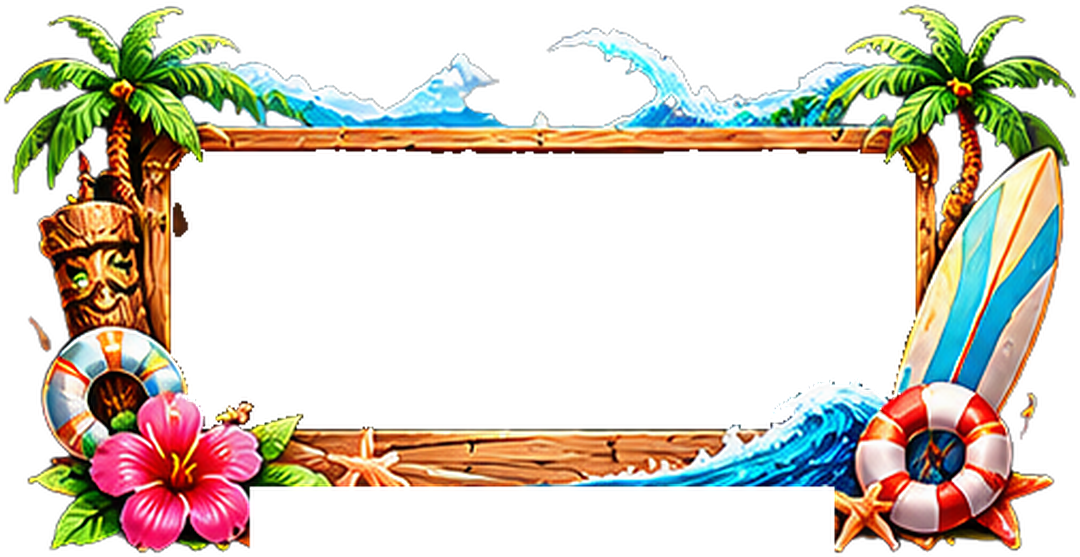
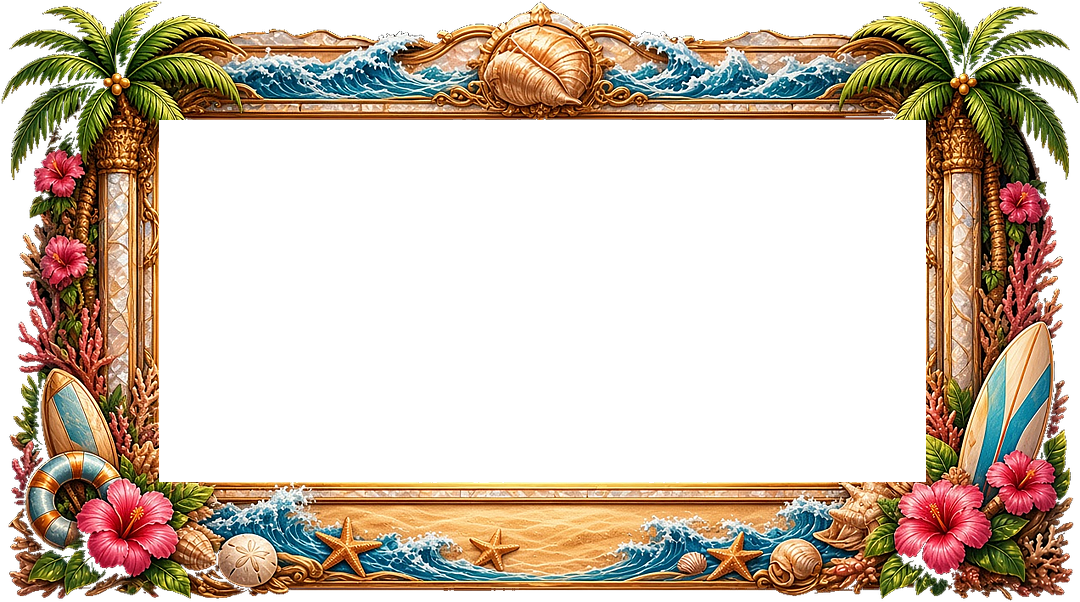
v28.136 夏日海灘外框改為方案 B 夕照珊瑚（僅畫面，數學／RTP 不變）

diff --git a/sw.js b/sw.js
@@ -1,6 +1,6 @@
 /* 龍運金殿 service worker — v2851 */
-const V='dfp-v28135';
-const CORE=['./','index.html','lobby2840.css?v=28131','lobby2841.css?v=2841','lobby2842.css?v=28133','act2848.css?v=2850','lobby2840.js?v=28133','av2877.css?v=28107','av2877.js?v=28107','assets/lx/bg.webp?v=2841','assets/fonts/lxserif.woff2?v=28117','dsfx.js?v=2854','gal266.css?v=266','gal266.js?v=267','logo262.css?v=264','lobby260.css?v=265','mq257.css?v=258','mq257.js?v=258','offline.html','privacy.html','store.js?v=2854','rm.js?v=256','life.js?v=256','age.js?v=286','settings.js?v=28135','feat28123.css?v=28127','assets/featgold/btn-wide.webp?v=28127','assets/featgold/stage-lip.webp?v=28127','assets/featgold/stage-fill.webp?v=28127','assets/featgold/panel.webp?v=28127','assets/featgold/rail-h.webp?v=28127','lb28111.css?v=28114','lb28111.js?v=28114','assets/lx/medal1.webp?v=28114','assets/lx/medal2.webp?v=28114','assets/lx/medal3.webp?v=28114','nick28112.css?v=28112','nick28112.js?v=28112','chat28117.css?v=28117','chat28117.js?v=28117','assets/chat/ico_horn.webp?v=28117','perf2887.js?v=2888','perf2887.css?v=2887','fx2888.css?v=2888','plaque28109.css?v=28128','bar28110.css?v=28110','ad2880.css?v=2880','ad2880.js?v=28101','menu2880.css?v=2884','menu2880.js?v=2881','deck2883.css?v=2883','deck2884.css?v=28128','deck2885.css?v=2885','deck2886.css?v=28118','assets/deck/skins/gold/btn-round.webp?v=2886','assets/ui/ico-home.svg?v=2884','assets/ui/ico-menu.svg?v=2884','assets/deck/skins/gold/frame.webp?v=2887','assets/deck/skins/gold/fill.webp?v=2884','assets/deck/skins/gold/crest.webp?v=2887','assets/deck/skins/gold/plaque.webp?v=2887','assets/deck/skins/gold/plaque-bet.webp?v=28128','toast2873.css?v=28115','ach2874.css?v=2898','ach2874.js?v=2882','assets/lx/ach_spin.svg?v=2875','assets/lx/ach_win.svg?v=2875','assets/lx/ach_mach.svg?v=2875','assets/lx/ach_feat.svg?v=2875','assets/lx/ach_lv.svg?v=2875','assets/lx/ach_frame.svg?v=2875','assets/lx/ach_ring.svg?v=2875','dfpvol.css?v=2854','dfpvol.js?v=2854','skinshop.css?v=2865','frame.css?v=2839','frame2844.css?v=2844','frame2846.css?v=2846','frame28134.css?v=28134','sym2847.css?v=2847','skinshop.js?v=28134','load285.css?v=285','load286.css?v=286','load287.css?v=287','load288.css?v=288','load289.css?v=289','load2810.css?v=2810','load2811.css?v=2811','juice.css?v=2859','juice.js?v=28116','featsfx.js?v=28120','amb2851.css?v=2851','amb2851.js?v=2888','tap272.css?v=272','hint.js?v=2840','social2826.css?v=28102','fb2868.js?v=28117','social2826.js?v=28112','week2827.css?v=28100','week2827.js?v=28100','inv2828.css?v=2891','inv2828.js?v=2891','raid2829.css?v=2882','raid2829.js?v=2882','guild2833.css?v=2869','guild2833.js?v=2882','share2832.css?v=2832','share2832.js?v=2832','back.js?v=256','manifest.webmanifest','assets/fx/tw-plaque.webp?v=2858','assets/logo21.webp','assets/lobby/logo22.webp?v=256','assets/lobby/logo22_soft.webp?v=287','assets/og287.webp?v=287','assets/lobby/navbar.webp?v=256','assets/lobby/medal.webp?v=256','assets/icons/icon-192.png','assets/lobby/bg.webp?v=256','matsuri-ui.css?v=28135','samurai-ui.css?v=28135','neko-ui.css?v=28135','sakura-ui.css?v=28135','matsuri-game.js?v=28134','samurai-game.js?v=28134','neko-game.js?v=28134','sakura-game.js?v=28134','feat.css?v=28129','feat.js?v=28129','assets/featgold/plinko/plq-sakura-100.webp?v=28129','assets/featgold/plinko/plq-sakura-25.webp?v=28129','assets/featgold/plinko/plq-sakura-8.webp?v=28129','assets/featgold/plinko/plq-sakura-low.webp?v=28129','assets/featgold/plinko/plq-neko-100.webp?v=28129','assets/featgold/plinko/plq-neko-25.webp?v=28129','assets/featgold/plinko/plq-neko-8.webp?v=28129','assets/featgold/plinko/plq-neko-low.webp?v=28129','assets/featgold/plinko/plq-samurai-100.webp?v=28129','assets/featgold/plinko/plq-samurai-25.webp?v=28129','assets/featgold/plinko/plq-samurai-8.webp?v=28129','assets/featgold/plinko/plq-samurai-low.webp?v=28129','assets/featgold/plinko/plq-matsuri-100.webp?v=28129','assets/featgold/plinko/plq-matsuri-25.webp?v=28129','assets/featgold/plinko/plq-matsuri-8.webp?v=28129','assets/featgold/plinko/plq-matsuri-low.webp?v=28129','assets/reelbg/bg-sakura.webp?v=28130','assets/reelbg/bg-neko.webp?v=28130','assets/reelbg/bg-samurai.webp?v=28130','assets/reelbg/bg-matsuri.webp?v=28130','assets/reelbg/frame-sakura.webp?v=28135','assets/reelbg/frame-neko.webp?v=28135','assets/reelbg/frame-samurai.webp?v=28135','assets/reelbg/frame-matsuri.webp?v=28135'];
+const V='dfp-v28136';
+const CORE=['./','index.html','lobby2840.css?v=28131','lobby2841.css?v=2841','lobby2842.css?v=28133','act2848.css?v=2850','lobby2840.js?v=28133','av2877.css?v=28107','av2877.js?v=28107','assets/lx/bg.webp?v=2841','assets/fonts/lxserif.woff2?v=28117','dsfx.js?v=2854','gal266.css?v=266','gal266.js?v=267','logo262.css?v=264','lobby260.css?v=265','mq257.css?v=258','mq257.js?v=258','offline.html','privacy.html','store.js?v=2854','rm.js?v=256','life.js?v=256','age.js?v=286','settings.js?v=28136','feat28123.css?v=28127','assets/featgold/btn-wide.webp?v=28127','assets/featgold/stage-lip.webp?v=28127','assets/featgold/stage-fill.webp?v=28127','assets/featgold/panel.webp?v=28127','assets/featgold/rail-h.webp?v=28127','lb28111.css?v=28114','lb28111.js?v=28114','assets/lx/medal1.webp?v=28114','assets/lx/medal2.webp?v=28114','assets/lx/medal3.webp?v=28114','nick28112.css?v=28112','nick28112.js?v=28112','chat28117.css?v=28117','chat28117.js?v=28117','assets/chat/ico_horn.webp?v=28117','perf2887.js?v=2888','perf2887.css?v=2887','fx2888.css?v=2888','plaque28109.css?v=28128','bar28110.css?v=28110','ad2880.css?v=2880','ad2880.js?v=28101','menu2880.css?v=2884','menu2880.js?v=2881','deck2883.css?v=2883','deck2884.css?v=28128','deck2885.css?v=2885','deck2886.css?v=28118','assets/deck/skins/gold/btn-round.webp?v=2886','assets/ui/ico-home.svg?v=2884','assets/ui/ico-menu.svg?v=2884','assets/deck/skins/gold/frame.webp?v=2887','assets/deck/skins/gold/fill.webp?v=2884','assets/deck/skins/gold/crest.webp?v=2887','assets/deck/skins/gold/plaque.webp?v=2887','assets/deck/skins/gold/plaque-bet.webp?v=28128','toast2873.css?v=28115','ach2874.css?v=2898','ach2874.js?v=2882','assets/lx/ach_spin.svg?v=2875','assets/lx/ach_win.svg?v=2875','assets/lx/ach_mach.svg?v=2875','assets/lx/ach_feat.svg?v=2875','assets/lx/ach_lv.svg?v=2875','assets/lx/ach_frame.svg?v=2875','assets/lx/ach_ring.svg?v=2875','dfpvol.css?v=2854','dfpvol.js?v=2854','skinshop.css?v=2865','frame.css?v=2839','frame2844.css?v=2844','frame2846.css?v=2846','frame28134.css?v=28136','sym2847.css?v=2847','skinshop.js?v=28134','load285.css?v=285','load286.css?v=286','load287.css?v=287','load288.css?v=288','load289.css?v=289','load2810.css?v=2810','load2811.css?v=2811','juice.css?v=2859','juice.js?v=28116','featsfx.js?v=28120','amb2851.css?v=2851','amb2851.js?v=2888','tap272.css?v=272','hint.js?v=2840','social2826.css?v=28102','fb2868.js?v=28117','social2826.js?v=28112','week2827.css?v=28100','week2827.js?v=28100','inv2828.css?v=2891','inv2828.js?v=2891','raid2829.css?v=2882','raid2829.js?v=2882','guild2833.css?v=2869','guild2833.js?v=2882','share2832.css?v=2832','share2832.js?v=2832','back.js?v=256','manifest.webmanifest','assets/fx/tw-plaque.webp?v=2858','assets/logo21.webp','assets/lobby/logo22.webp?v=256','assets/lobby/logo22_soft.webp?v=287','assets/og287.webp?v=287','assets/lobby/navbar.webp?v=256','assets/lobby/medal.webp?v=256','assets/icons/icon-192.png','assets/lobby/bg.webp?v=256','matsuri-ui.css?v=28135','samurai-ui.css?v=28135','neko-ui.css?v=28135','sakura-ui.css?v=28135','matsuri-game.js?v=28134','samurai-game.js?v=28134','neko-game.js?v=28134','sakura-game.js?v=28134','feat.css?v=28129','feat.js?v=28129','assets/featgold/plinko/plq-sakura-100.webp?v=28129','assets/featgold/plinko/plq-sakura-25.webp?v=28129','assets/featgold/plinko/plq-sakura-8.webp?v=28129','assets/featgold/plinko/plq-sakura-low.webp?v=28129','assets/featgold/plinko/plq-neko-100.webp?v=28129','assets/featgold/plinko/plq-neko-25.webp?v=28129','assets/featgold/plinko/plq-neko-8.webp?v=28129','assets/featgold/plinko/plq-neko-low.webp?v=28129','assets/featgold/plinko/plq-samurai-100.webp?v=28129','assets/featgold/plinko/plq-samurai-25.webp?v=28129','assets/featgold/plinko/plq-samurai-8.webp?v=28129','assets/featgold/plinko/plq-samurai-low.webp?v=28129','assets/featgold/plinko/plq-matsuri-100.webp?v=28129','assets/featgold/plinko/plq-matsuri-25.webp?v=28129','assets/featgold/plinko/plq-matsuri-8.webp?v=28129','assets/featgold/plinko/plq-matsuri-low.webp?v=28129','assets/reelbg/bg-sakura.webp?v=28130','assets/reelbg/bg-neko.webp?v=28130','assets/reelbg/bg-samurai.webp?v=28130','assets/reelbg/bg-matsuri.webp?v=28130','assets/reelbg/frame-sakura.webp?v=28135','assets/reelbg/frame-neko.webp?v=28135','assets/reelbg/frame-samurai.webp?v=28135','assets/reelbg/frame-matsuri.webp?v=28135'];
 self.addEventListener('install',e=>{e.waitUntil(caches.open(V).then(c=>c.addAll(CORE)).then(()=>self.skipWaiting()))});
 self.addEventListener('activate',e=>{e.waitUntil(caches.keys().then(ks=>Promise.all(ks.filter(k=>k.startsWith('dfp-')&&k!==V).map(k=>caches.delete(k)))).then(()=>self.clients.claim()))});
 self.addEventListener('fetch',e=>{

diff --git a/matsuri.html b/matsuri.html
@@ -100,6 +100,6 @@ document.addEventListener('click',e=>{if(document.body.classList.contains('menu1
 $('menu16').addEventListener('click',e=>{if(e.target.closest('button')&&!e.target.closest('#soundBtn')&&!e.target.closest('.dfpVol')&&!e.target.closest('#setBtn')&&!e.target.closest('#vibBtn')&&!e.target.closest('#rmBtn')){document.body.classList.remove('menu16');mb.setAttribute('aria-expanded',false)}});
 const fit=el=>{const l=String(el.textContent).length;if(el.dataset.l!=l)el.dataset.l=l};['bal','win'].forEach(id=>{const el=$(id);fit(el);new MutationObserver(()=>fit(el)).observe(el,{childList:true,characterData:true,subtree:true})})})()</script><script>window.CZM={"id": "matsuri", "name": "夏祭花火", "buy": 15.5, "rtp": 94.02, "buyRtp": 93.75, "fsm": 2}</script><script>CZM.who="夏美";CZM.voice={"yokoku": ["煙火好像要升空了…！", "祭典的預感！"], "reach": ["機會來了！金魚拜託了！", "就差一個！"], "hot": ["大煙火要來了！！", "祭典要高潮了！"], "win": ["好美的煙火〜！", "太好了！"], "lose": ["期待下一發煙火！", "好可惜〜"], "kakutei": ["大獎煙火，確定！！"]}</script><script src="casino.js?v=28122"></script><script src="gallery.js?v=2897"></script><script src="minigame.js?v=2815"></script><script src="enshutsu.js?v=2853"></script><script src="czaudio.js?v=28116"></script><script src="featsfx.js?v=28120"></script><script src="czfit.js?v=2888"></script><link rel="stylesheet" href="juice.css?v=2859"><script src="juice.js?v=28116"></script><link rel="stylesheet" href="amb2851.css?v=2851"><script src="amb2851.js?v=2888"></script><link rel="stylesheet" href="holdspin.css?v=2823"><script src="holdspin.js?v=28127"></script><link rel="stylesheet" href="av.css?v=2863"><script src="av.js?v=28116"></script><link rel="stylesheet" href="feat.css?v=28129"><script src="fxlite.js?v=28121"></script><script src="feat.js?v=28129"></script><link rel="stylesheet" href="life21.css?v=256"><link rel="stylesheet" href="ui21.css?v=256"><script src="ui21.js?v=28116"></script><link rel="stylesheet" href="win21.css?v=2814"><script src="win21.js?v=2888"></script><link rel="stylesheet" href="bonus22.css?v=2814"><script src="bonus22.js?v=28127"></script><link rel="stylesheet" href="reel21.css?v=2865">
 <link rel="stylesheet" href="holdspin2813.css?v=2813"><link rel="stylesheet" href="holdspin2814.css?v=2814"><link rel="stylesheet" href="holdspin2816.css?v=2816"><link rel="stylesheet" href="holdspin2817.css?v=2817"><link rel="stylesheet" href="holdspin2818.css?v=2818"><link rel="stylesheet" href="fxlite.css?v=28121">
-<link rel="stylesheet" href="feat28123.css?v=28127"><link rel="preload" as="image" href="assets/featgold/stage-lip.webp?v=28127" type="image/webp"><link rel="preload" as="image" href="assets/featgold/stage-fill.webp?v=28127" type="image/webp"><link rel="preload" as="image" href="assets/featgold/panel.webp?v=28127" type="image/webp"><link rel="preload" as="image" href="assets/featgold/btn-wide.webp?v=28127" type="image/webp"><link rel="preload" as="image" href="assets/featgold/plinko/plq-matsuri-100.webp?v=28129" type="image/webp"><link rel="preload" as="image" href="assets/featgold/plinko/plq-matsuri-25.webp?v=28129" type="image/webp"><link rel="preload" as="image" href="assets/featgold/plinko/plq-matsuri-8.webp?v=28129" type="image/webp"><link rel="preload" as="image" href="assets/featgold/plinko/plq-matsuri-low.webp?v=28129" type="image/webp"><script src="reel21.js?v=2823"></script><link rel="stylesheet" href="pose21.css?v=256"><script src="pose21.js?v=256"></script><link rel="stylesheet" href="bolt22.css?v=281"><script src="bolt22.js?v=2888"></script><link rel="stylesheet" href="skinshop.css?v=2865"><link rel="stylesheet" href="frame.css?v=2839"><link rel="stylesheet" href="frame2844.css?v=2844"><link rel="stylesheet" href="frame2846.css?v=2846"><link rel="stylesheet" href="frame28134.css?v=28134"><link rel="stylesheet" href="sym2847.css?v=2847"><script src="skinshop.js?v=28134"></script><link rel="stylesheet" href="dfpvol.css?v=2854"><script src="dfpvol.js?v=2854"></script><script src="settings.js?v=28135"></script><script src="ad2880.js?v=28101"></script><script src="menu2880.js?v=2881"></script><script src="lowbal.js?v=2880"></script><link rel="stylesheet" href="share2832.css?v=2832"><script src="share2832.js?v=2832"></script>
+<link rel="stylesheet" href="feat28123.css?v=28127"><link rel="preload" as="image" href="assets/featgold/stage-lip.webp?v=28127" type="image/webp"><link rel="preload" as="image" href="assets/featgold/stage-fill.webp?v=28127" type="image/webp"><link rel="preload" as="image" href="assets/featgold/panel.webp?v=28127" type="image/webp"><link rel="preload" as="image" href="assets/featgold/btn-wide.webp?v=28127" type="image/webp"><link rel="preload" as="image" href="assets/featgold/plinko/plq-matsuri-100.webp?v=28129" type="image/webp"><link rel="preload" as="image" href="assets/featgold/plinko/plq-matsuri-25.webp?v=28129" type="image/webp"><link rel="preload" as="image" href="assets/featgold/plinko/plq-matsuri-8.webp?v=28129" type="image/webp"><link rel="preload" as="image" href="assets/featgold/plinko/plq-matsuri-low.webp?v=28129" type="image/webp"><script src="reel21.js?v=2823"></script><link rel="stylesheet" href="pose21.css?v=256"><script src="pose21.js?v=256"></script><link rel="stylesheet" href="bolt22.css?v=281"><script src="bolt22.js?v=2888"></script><link rel="stylesheet" href="skinshop.css?v=2865"><link rel="stylesheet" href="frame.css?v=2839"><link rel="stylesheet" href="frame2844.css?v=2844"><link rel="stylesheet" href="frame2846.css?v=2846"><link rel="stylesheet" href="frame28134.css?v=28136"><link rel="stylesheet" href="sym2847.css?v=2847"><script src="skinshop.js?v=28134"></script><link rel="stylesheet" href="dfpvol.css?v=2854"><script src="dfpvol.js?v=2854"></script><script src="settings.js?v=28136"></script><script src="ad2880.js?v=28101"></script><script src="menu2880.js?v=2881"></script><script src="lowbal.js?v=2880"></script><link rel="stylesheet" href="share2832.css?v=2832"><script src="share2832.js?v=2832"></script>
 <script src="nick28112.js?v=28112"></script><link rel="stylesheet" href="tap272.css?v=272"><link rel="stylesheet" href="perf2887.css?v=2887"><link rel="stylesheet" href="fx2888.css?v=28108"><link rel="stylesheet" href="plaque28109.css?v=28128"><link rel="stylesheet" href="bar28110.css?v=28110">
 <script>if("serviceWorker"in navigator)addEventListener("load",function(){navigator.serviceWorker.register("sw.js").catch(function(){})})</script></body></html>

diff --git a/samurai.html b/samurai.html
@@ -101,6 +101,6 @@ document.addEventListener('click',e=>{if(document.body.classList.contains('menu1
 $('menu16').addEventListener('click',e=>{if(e.target.closest('button')&&!e.target.closest('#soundBtn')&&!e.target.closest('.dfpVol')&&!e.target.closest('#setBtn')&&!e.target.closest('#vibBtn')&&!e.target.closest('#rmBtn')){document.body.classList.remove('menu16');mb.setAttribute('aria-expanded',false)}});
 const fit=el=>{const l=String(el.textContent).length;if(el.dataset.l!=l)el.dataset.l=l};['bal','win'].forEach(id=>{const el=$(id);fit(el);new MutationObserver(()=>fit(el)).observe(el,{childList:true,characterData:true,subtree:true})})})()</script><script>window.CZM={"id": "samurai", "name": "天下布武", "buy": 21.3, "rtp": 93.94, "buyRtp": 94.16, "fsm": 3}</script><script>CZM.who="信長";CZM.voice={"yokoku": ["…有種預感", "風向變了"], "reach": ["機會來了！斬開血路！", "再一刀！"], "hot": ["天下就在眼前！！", "氣勢上來了！"], "win": ["見事！", "高呼勝利吧！"], "lose": ["尚未結束", "準備下一場戰鬥"], "kakutei": ["天下布武、確定！！"]}</script><script src="casino.js?v=28122"></script><script src="gallery.js?v=2897"></script><script src="minigame.js?v=2815"></script><script src="enshutsu.js?v=2853"></script><script src="czaudio.js?v=28116"></script><script src="featsfx.js?v=28120"></script><script src="czfit.js?v=2888"></script><link rel="stylesheet" href="juice.css?v=2859"><script src="juice.js?v=28116"></script><link rel="stylesheet" href="amb2851.css?v=2851"><script src="amb2851.js?v=2888"></script><link rel="stylesheet" href="holdspin.css?v=2823"><script src="holdspin.js?v=28127"></script><link rel="stylesheet" href="av.css?v=2863"><script src="av.js?v=28116"></script><link rel="stylesheet" href="feat.css?v=28129"><script src="fxlite.js?v=28121"></script><script src="feat.js?v=28129"></script><link rel="stylesheet" href="life21.css?v=256"><link rel="stylesheet" href="ui21.css?v=256"><script src="ui21.js?v=28116"></script><link rel="stylesheet" href="win21.css?v=2814"><script src="win21.js?v=2888"></script><link rel="stylesheet" href="bonus22.css?v=2814"><script src="bonus22.js?v=28127"></script><link rel="stylesheet" href="reel21.css?v=2865">
 <link rel="stylesheet" href="holdspin2813.css?v=2813"><link rel="stylesheet" href="holdspin2814.css?v=2814"><link rel="stylesheet" href="holdspin2816.css?v=2816"><link rel="stylesheet" href="holdspin2817.css?v=2817"><link rel="stylesheet" href="holdspin2818.css?v=2818"><link rel="stylesheet" href="fxlite.css?v=28121">
-<link rel="stylesheet" href="feat28123.css?v=28127"><link rel="preload" as="image" href="assets/featgold/stage-lip.webp?v=28127" type="image/webp"><link rel="preload" as="image" href="assets/featgold/stage-fill.webp?v=28127" type="image/webp"><link rel="preload" as="image" href="assets/featgold/panel.webp?v=28127" type="image/webp"><link rel="preload" as="image" href="assets/featgold/btn-wide.webp?v=28127" type="image/webp"><link rel="preload" as="image" href="assets/featgold/plinko/plq-samurai-100.webp?v=28129" type="image/webp"><link rel="preload" as="image" href="assets/featgold/plinko/plq-samurai-25.webp?v=28129" type="image/webp"><link rel="preload" as="image" href="assets/featgold/plinko/plq-samurai-8.webp?v=28129" type="image/webp"><link rel="preload" as="image" href="assets/featgold/plinko/plq-samurai-low.webp?v=28129" type="image/webp"><script src="reel21.js?v=2823"></script><link rel="stylesheet" href="pose21.css?v=256"><script src="pose21.js?v=256"></script><link rel="stylesheet" href="bolt22.css?v=281"><script src="bolt22.js?v=2888"></script><link rel="stylesheet" href="skinshop.css?v=2865"><link rel="stylesheet" href="frame.css?v=2839"><link rel="stylesheet" href="frame2844.css?v=2844"><link rel="stylesheet" href="frame2846.css?v=2846"><link rel="stylesheet" href="frame28134.css?v=28134"><link rel="stylesheet" href="sym2847.css?v=2847"><script src="skinshop.js?v=28134"></script><link rel="stylesheet" href="dfpvol.css?v=2854"><script src="dfpvol.js?v=2854"></script><script src="settings.js?v=28135"></script><script src="ad2880.js?v=28101"></script><script src="menu2880.js?v=2881"></script><script src="lowbal.js?v=2880"></script><link rel="stylesheet" href="share2832.css?v=2832"><script src="share2832.js?v=2832"></script>
+<link rel="stylesheet" href="feat28123.css?v=28127"><link rel="preload" as="image" href="assets/featgold/stage-lip.webp?v=28127" type="image/webp"><link rel="preload" as="image" href="assets/featgold/stage-fill.webp?v=28127" type="image/webp"><link rel="preload" as="image" href="assets/featgold/panel.webp?v=28127" type="image/webp"><link rel="preload" as="image" href="assets/featgold/btn-wide.webp?v=28127" type="image/webp"><link rel="preload" as="image" href="assets/featgold/plinko/plq-samurai-100.webp?v=28129" type="image/webp"><link rel="preload" as="image" href="assets/featgold/plinko/plq-samurai-25.webp?v=28129" type="image/webp"><link rel="preload" as="image" href="assets/featgold/plinko/plq-samurai-8.webp?v=28129" type="image/webp"><link rel="preload" as="image" href="assets/featgold/plinko/plq-samurai-low.webp?v=28129" type="image/webp"><script src="reel21.js?v=2823"></script><link rel="stylesheet" href="pose21.css?v=256"><script src="pose21.js?v=256"></script><link rel="stylesheet" href="bolt22.css?v=281"><script src="bolt22.js?v=2888"></script><link rel="stylesheet" href="skinshop.css?v=2865"><link rel="stylesheet" href="frame.css?v=2839"><link rel="stylesheet" href="frame2844.css?v=2844"><link rel="stylesheet" href="frame2846.css?v=2846"><link rel="stylesheet" href="frame28134.css?v=28136"><link rel="stylesheet" href="sym2847.css?v=2847"><script src="skinshop.js?v=28134"></script><link rel="stylesheet" href="dfpvol.css?v=2854"><script src="dfpvol.js?v=2854"></script><script src="settings.js?v=28136"></script><script src="ad2880.js?v=28101"></script><script src="menu2880.js?v=2881"></script><script src="lowbal.js?v=2880"></script><link rel="stylesheet" href="share2832.css?v=2832"><script src="share2832.js?v=2832"></script>
 <script src="nick28112.js?v=28112"></script><link rel="stylesheet" href="tap272.css?v=272"><link rel="stylesheet" href="perf2887.css?v=2887"><link rel="stylesheet" href="fx2888.css?v=28108"><link rel="stylesheet" href="plaque28109.css?v=28128"><link rel="stylesheet" href="bar28110.css?v=28110">
 <script>if("serviceWorker"in navigator)addEventListener("load",function(){navigator.serviceWorker.register("sw.js").catch(function(){})})</script></body></html>

diff --git a/sakura.html b/sakura.html
@@ -101,6 +101,6 @@ document.addEventListener('click',e=>{if(document.body.classList.contains('menu1
 $('menu16').addEventListener('click',e=>{if(e.target.closest('button')&&!e.target.closest('#soundBtn')&&!e.target.closest('.dfpVol')&&!e.target.closest('#setBtn')&&!e.target.closest('#vibBtn')&&!e.target.closest('#rmBtn')){document.body.classList.remove('menu16');mb.setAttribute('aria-expanded',false)}});
 const fit=el=>{const l=String(el.textContent).length;if(el.dataset.l!=l)el.dataset.l=l};['bal','win'].forEach(id=>{const el=$(id);fit(el);new MutationObserver(()=>fit(el)).observe(el,{childList:true,characterData:true,subtree:true})})})()</script><script>window.CZM={"id": "sakura", "name": "櫻花斬", "buy": 21.5, "rtp": 94.06, "buyRtp": 94.2, "fsm": 3}</script><script>CZM.who="櫻";CZM.voice={"yokoku": ["…櫻花在騷動", "出刀的時刻到了"], "reach": ["機會來了！一閃定勝負！", "就差一個…！"], "hot": ["繚亂之刻！！", "這一刀賭上一切！"], "win": ["斬斷了！", "漂亮的一閃"], "lose": ["還不會凋零", "下次一定斬"], "kakutei": ["櫻花斬、確定！！"]}</script><script src="casino.js?v=28122"></script><script src="gallery.js?v=2897"></script><script src="minigame.js?v=2815"></script><script src="enshutsu.js?v=2853"></script><script src="czaudio.js?v=28116"></script><script src="featsfx.js?v=28120"></script><script src="czfit.js?v=2888"></script><link rel="stylesheet" href="juice.css?v=2859"><script src="juice.js?v=28116"></script><link rel="stylesheet" href="amb2851.css?v=2851"><script src="amb2851.js?v=2888"></script><link rel="stylesheet" href="holdspin.css?v=2823"><script src="holdspin.js?v=28127"></script><link rel="stylesheet" href="av.css?v=2863"><script src="av.js?v=28116"></script><link rel="stylesheet" href="feat.css?v=28129"><script src="fxlite.js?v=28121"></script><script src="feat.js?v=28129"></script><link rel="stylesheet" href="life21.css?v=256"><link rel="stylesheet" href="ui21.css?v=256"><script src="ui21.js?v=28116"></script><link rel="stylesheet" href="win21.css?v=2814"><script src="win21.js?v=2888"></script><link rel="stylesheet" href="bonus22.css?v=2814"><script src="bonus22.js?v=28127"></script><link rel="stylesheet" href="reel21.css?v=2865">
 <link rel="stylesheet" href="holdspin2813.css?v=2813"><link rel="stylesheet" href="holdspin2814.css?v=2814"><link rel="stylesheet" href="holdspin2816.css?v=2816"><link rel="stylesheet" href="holdspin2817.css?v=2817"><link rel="stylesheet" href="holdspin2818.css?v=2818"><link rel="stylesheet" href="fxlite.css?v=28121">
-<link rel="stylesheet" href="feat28123.css?v=28127"><link rel="preload" as="image" href="assets/featgold/stage-lip.webp?v=28127" type="image/webp"><link rel="preload" as="image" href="assets/featgold/stage-fill.webp?v=28127" type="image/webp"><link rel="preload" as="image" href="assets/featgold/panel.webp?v=28127" type="image/webp"><link rel="preload" as="image" href="assets/featgold/btn-wide.webp?v=28127" type="image/webp"><link rel="preload" as="image" href="assets/featgold/plinko/plq-sakura-100.webp?v=28129" type="image/webp"><link rel="preload" as="image" href="assets/featgold/plinko/plq-sakura-25.webp?v=28129" type="image/webp"><link rel="preload" as="image" href="assets/featgold/plinko/plq-sakura-8.webp?v=28129" type="image/webp"><link rel="preload" as="image" href="assets/featgold/plinko/plq-sakura-low.webp?v=28129" type="image/webp"><script src="reel21.js?v=2823"></script><link rel="stylesheet" href="pose21.css?v=256"><script src="pose21.js?v=256"></script><link rel="stylesheet" href="bolt22.css?v=281"><script src="bolt22.js?v=2888"></script><link rel="stylesheet" href="skinshop.css?v=2865"><link rel="stylesheet" href="frame.css?v=2839"><link rel="stylesheet" href="frame2844.css?v=2844"><link rel="stylesheet" href="frame2846.css?v=2846"><link rel="stylesheet" href="frame28134.css?v=28134"><link rel="stylesheet" href="sym2847.css?v=2847"><script src="skinshop.js?v=28134"></script><link rel="stylesheet" href="dfpvol.css?v=2854"><script src="dfpvol.js?v=2854"></script><script src="settings.js?v=28135"></script><script src="ad2880.js?v=28101"></script><script src="menu2880.js?v=2881"></script><script src="lowbal.js?v=2880"></script><link rel="stylesheet" href="share2832.css?v=2832"><script src="share2832.js?v=2832"></script>
+<link rel="stylesheet" href="feat28123.css?v=28127"><link rel="preload" as="image" href="assets/featgold/stage-lip.webp?v=28127" type="image/webp"><link rel="preload" as="image" href="assets/featgold/stage-fill.webp?v=28127" type="image/webp"><link rel="preload" as="image" href="assets/featgold/panel.webp?v=28127" type="image/webp"><link rel="preload" as="image" href="assets/featgold/btn-wide.webp?v=28127" type="image/webp"><link rel="preload" as="image" href="assets/featgold/plinko/plq-sakura-100.webp?v=28129" type="image/webp"><link rel="preload" as="image" href="assets/featgold/plinko/plq-sakura-25.webp?v=28129" type="image/webp"><link rel="preload" as="image" href="assets/featgold/plinko/plq-sakura-8.webp?v=28129" type="image/webp"><link rel="preload" as="image" href="assets/featgold/plinko/plq-sakura-low.webp?v=28129" type="image/webp"><script src="reel21.js?v=2823"></script><link rel="stylesheet" href="pose21.css?v=256"><script src="pose21.js?v=256"></script><link rel="stylesheet" href="bolt22.css?v=281"><script src="bolt22.js?v=2888"></script><link rel="stylesheet" href="skinshop.css?v=2865"><link rel="stylesheet" href="frame.css?v=2839"><link rel="stylesheet" href="frame2844.css?v=2844"><link rel="stylesheet" href="frame2846.css?v=2846"><link rel="stylesheet" href="frame28134.css?v=28136"><link rel="stylesheet" href="sym2847.css?v=2847"><script src="skinshop.js?v=28134"></script><link rel="stylesheet" href="dfpvol.css?v=2854"><script src="dfpvol.js?v=2854"></script><script src="settings.js?v=28136"></script><script src="ad2880.js?v=28101"></script><script src="menu2880.js?v=2881"></script><script src="lowbal.js?v=2880"></script><link rel="stylesheet" href="share2832.css?v=2832"><script src="share2832.js?v=2832"></script>
 <script src="nick28112.js?v=28112"></script><link rel="stylesheet" href="tap272.css?v=272"><link rel="stylesheet" href="perf2887.css?v=2887"><link rel="stylesheet" href="fx2888.css?v=28108"><link rel="stylesheet" href="plaque28109.css?v=28128"><link rel="stylesheet" href="bar28110.css?v=28110">
 <script>if("serviceWorker"in navigator)addEventListener("load",function(){navigator.serviceWorker.register("sw.js").catch(function(){})})</script></body></html>

diff --git a/neko.html b/neko.html
@@ -101,6 +101,6 @@ document.addEventListener('click',e=>{if(document.body.classList.contains('menu1
 $('menu16').addEventListener('click',e=>{if(e.target.closest('button')&&!e.target.closest('#soundBtn')&&!e.target.closest('.dfpVol')&&!e.target.closest('#setBtn')&&!e.target.closest('#vibBtn')&&!e.target.closest('#rmBtn')){document.body.classList.remove('menu16');mb.setAttribute('aria-expanded',false)}});
 const fit=el=>{const l=String(el.textContent).length;if(el.dataset.l!=l)el.dataset.l=l};['bal','win'].forEach(id=>{const el=$(id);fit(el);new MutationObserver(()=>fit(el)).observe(el,{childList:true,characterData:true,subtree:true})})})()</script><script>window.CZM={"id": "neko", "name": "招財大作戰", "buy": 15.4, "rtp": 93.98, "buyRtp": 94.3, "fsm": 2}</script><script>CZM.who="招財喵";CZM.voice={"yokoku": ["喵？有好預感～", "鈴鐺響了！"], "reach": ["機會來了喵！", "再一個就好！"], "hot": ["好運要來了喵！", "金幣要來了！"], "win": ["喵～發財了！", "好運連連！"], "lose": ["下次一定喵", "別灰心喵～"], "kakutei": ["大獎確定喵！！"]}</script><script src="casino.js?v=28122"></script><script src="gallery.js?v=2897"></script><script src="minigame.js?v=2815"></script><script src="enshutsu.js?v=2853"></script><script src="czaudio.js?v=28116"></script><script src="featsfx.js?v=28120"></script><script src="czfit.js?v=2888"></script><link rel="stylesheet" href="juice.css?v=2859"><script src="juice.js?v=28116"></script><link rel="stylesheet" href="amb2851.css?v=2851"><script src="amb2851.js?v=2888"></script><link rel="stylesheet" href="holdspin.css?v=2823"><script src="holdspin.js?v=28127"></script><link rel="stylesheet" href="av.css?v=2863"><script src="av.js?v=28116"></script><link rel="stylesheet" href="feat.css?v=28129"><script src="fxlite.js?v=28121"></script><script src="feat.js?v=28129"></script><link rel="stylesheet" href="life21.css?v=256"><link rel="stylesheet" href="ui21.css?v=256"><script src="ui21.js?v=28116"></script><link rel="stylesheet" href="win21.css?v=2814"><script src="win21.js?v=2888"></script><link rel="stylesheet" href="bonus22.css?v=2814"><script src="bonus22.js?v=28127"></script><link rel="stylesheet" href="reel21.css?v=2865">
 <link rel="stylesheet" href="holdspin2813.css?v=2813"><link rel="stylesheet" href="holdspin2814.css?v=2814"><link rel="stylesheet" href="holdspin2816.css?v=2816"><link rel="stylesheet" href="holdspin2817.css?v=2817"><link rel="stylesheet" href="holdspin2818.css?v=2818"><link rel="stylesheet" href="fxlite.css?v=28121">
-<link rel="stylesheet" href="feat28123.css?v=28127"><link rel="preload" as="image" href="assets/featgold/stage-lip.webp?v=28127" type="image/webp"><link rel="preload" as="image" href="assets/featgold/stage-fill.webp?v=28127" type="image/webp"><link rel="preload" as="image" href="assets/featgold/panel.webp?v=28127" type="image/webp"><link rel="preload" as="image" href="assets/featgold/btn-wide.webp?v=28127" type="image/webp"><link rel="preload" as="image" href="assets/featgold/plinko/plq-neko-100.webp?v=28129" type="image/webp"><link rel="preload" as="image" href="assets/featgold/plinko/plq-neko-25.webp?v=28129" type="image/webp"><link rel="preload" as="image" href="assets/featgold/plinko/plq-neko-8.webp?v=28129" type="image/webp"><link rel="preload" as="image" href="assets/featgold/plinko/plq-neko-low.webp?v=28129" type="image/webp"><script src="reel21.js?v=2823"></script><link rel="stylesheet" href="pose21.css?v=256"><script src="pose21.js?v=256"></script><link rel="stylesheet" href="bolt22.css?v=281"><script src="bolt22.js?v=2888"></script><link rel="stylesheet" href="skinshop.css?v=2865"><link rel="stylesheet" href="frame.css?v=2839"><link rel="stylesheet" href="frame2844.css?v=2844"><link rel="stylesheet" href="frame2846.css?v=2846"><link rel="stylesheet" href="frame28134.css?v=28134"><link rel="stylesheet" href="sym2847.css?v=2847"><script src="skinshop.js?v=28134"></script><link rel="stylesheet" href="dfpvol.css?v=2854"><script src="dfpvol.js?v=2854"></script><script src="settings.js?v=28135"></script><script src="ad2880.js?v=28101"></script><script src="menu2880.js?v=2881"></script><script src="lowbal.js?v=2880"></script><link rel="stylesheet" href="share2832.css?v=2832"><script src="share2832.js?v=2832"></script>
+<link rel="stylesheet" href="feat28123.css?v=28127"><link rel="preload" as="image" href="assets/featgold/stage-lip.webp?v=28127" type="image/webp"><link rel="preload" as="image" href="assets/featgold/stage-fill.webp?v=28127" type="image/webp"><link rel="preload" as="image" href="assets/featgold/panel.webp?v=28127" type="image/webp"><link rel="preload" as="image" href="assets/featgold/btn-wide.webp?v=28127" type="image/webp"><link rel="preload" as="image" href="assets/featgold/plinko/plq-neko-100.webp?v=28129" type="image/webp"><link rel="preload" as="image" href="assets/featgold/plinko/plq-neko-25.webp?v=28129" type="image/webp"><link rel="preload" as="image" href="assets/featgold/plinko/plq-neko-8.webp?v=28129" type="image/webp"><link rel="preload" as="image" href="assets/featgold/plinko/plq-neko-low.webp?v=28129" type="image/webp"><script src="reel21.js?v=2823"></script><link rel="stylesheet" href="pose21.css?v=256"><script src="pose21.js?v=256"></script><link rel="stylesheet" href="bolt22.css?v=281"><script src="bolt22.js?v=2888"></script><link rel="stylesheet" href="skinshop.css?v=2865"><link rel="stylesheet" href="frame.css?v=2839"><link rel="stylesheet" href="frame2844.css?v=2844"><link rel="stylesheet" href="frame2846.css?v=2846"><link rel="stylesheet" href="frame28134.css?v=28136"><link rel="stylesheet" href="sym2847.css?v=2847"><script src="skinshop.js?v=28134"></script><link rel="stylesheet" href="dfpvol.css?v=2854"><script src="dfpvol.js?v=2854"></script><script src="settings.js?v=28136"></script><script src="ad2880.js?v=28101"></script><script src="menu2880.js?v=2881"></script><script src="lowbal.js?v=2880"></script><link rel="stylesheet" href="share2832.css?v=2832"><script src="share2832.js?v=2832"></script>
 <script src="nick28112.js?v=28112"></script><link rel="stylesheet" href="tap272.css?v=272"><link rel="stylesheet" href="perf2887.css?v=2887"><link rel="stylesheet" href="fx2888.css?v=28108"><link rel="stylesheet" href="plaque28109.css?v=28128"><link rel="stylesheet" href="bar28110.css?v=28110">
 <script>if("serviceWorker"in navigator)addEventListener("load",function(){navigator.serviceWorker.register("sw.js").catch(function(){})})</script></body></html>

diff --git a/index.html b/index.html
@@ -225,4 +225,4 @@ refresh();
 for(var i=0;i<4;i++){ph+=g[i]?'<div style="background-image:url('+g[i]+'?v=256)"></div>':'<div class="sil" style="background-image:url(assets/'+S[i]+'/p_idle.webp?v=256)"></div>'}
 var c=document.createElement("a");c.className="card galcard";c.id="bGal";c.setAttribute("role","button");c.tabIndex=0;c.style.cursor="pointer";c.setAttribute("aria-label","角色圖鑑");c.style.setProperty("--i",w.children.length);
 c.innerHTML='<span class="rib">角色收藏</span><div class="gph">'+ph+'</div><div class="meta"><div class="t"><b>角色圖鑑</b><small><span class="tag">已收集 '+n+' / '+T+'</span></small><div class="gbar"><i style="width:'+Math.round(n/T*100)+'%"></i></div></div><span class="play">查看</span></div>';
-c.onclick=function(e){e.preventDefault();e.stopPropagation();CZGAL.open()};c.onkeydown=function(e){if(e.key==="Enter"||e.key===" "){e.preventDefault();CZGAL.open()}};var l=w.querySelector(".card.lock");w.insertBefore(c,l)})()</script><link rel="stylesheet" href="life21.css?v=256"><link rel="stylesheet" href="lobby21.css?v=256"><link rel="stylesheet" href="lobby260.css?v=265"><link rel="stylesheet" href="logo262.css?v=264"><link rel="stylesheet" href="amb2851.css?v=2851"><script src="amb2851.js?v=2888" defer></script><script src="lobby21.js?v=266"></script><link rel="stylesheet" href="tap272.css?v=272"><link rel="stylesheet" href="dfpvol.css?v=2854"><script src="dfpvol.js?v=2854"></script><script src="settings.js?v=28135"></script><script src="hint.js?v=2840"></script><link rel="stylesheet" href="social2826.css?v=28102"><script type="module" src="fb2868.js?v=28117"></script><script src="social2826.js?v=28112"></script><link rel="stylesheet" href="week2827.css?v=28100"><script src="week2827.js?v=28100"></script><link rel="stylesheet" href="inv2828.css?v=2891"><script src="inv2828.js?v=2891"></script><link rel="stylesheet" href="raid2829.css?v=2882"><script src="raid2829.js?v=2882"></script><link rel="stylesheet" href="guild2833.css?v=2869"><script src="guild2833.js?v=2882"></script><link rel="stylesheet" href="lobby2840.css?v=28131"><link rel="stylesheet" href="lobby2841.css?v=2841"><link rel="stylesheet" href="lobby2842.css?v=28133"><link rel="stylesheet" href="act2848.css?v=2850"><link rel="stylesheet" href="toast2873.css?v=28115"><link rel="stylesheet" href="ach2874.css?v=2898"><script src="ach2874.js?v=2882"></script><script src="lobby2840.js?v=28133"></script><link rel="stylesheet" href="av2877.css?v=28107"><script src="av2877.js?v=28107"></script><link rel="stylesheet" href="skinshop.css?v=2865"><link rel="stylesheet" href="perf2887.css?v=2887"><script src="skinshop.js?v=28134"></script><link rel="stylesheet" href="lb28111.css?v=28114"><script src="lb28111.js?v=28114"></script><link rel="stylesheet" href="nick28112.css?v=28112"><script src="nick28112.js?v=28112"></script><link rel="stylesheet" href="chat28117.css?v=28117"><script src="chat28117.js?v=28117"></script><script>if("serviceWorker"in navigator)addEventListener("load",function(){navigator.serviceWorker.register("sw.js").catch(function(){})})</script></body></html>
+c.onclick=function(e){e.preventDefault();e.stopPropagation();CZGAL.open()};c.onkeydown=function(e){if(e.key==="Enter"||e.key===" "){e.preventDefault();CZGAL.open()}};var l=w.querySelector(".card.lock");w.insertBefore(c,l)})()</script><link rel="stylesheet" href="life21.css?v=256"><link rel="stylesheet" href="lobby21.css?v=256"><link rel="stylesheet" href="lobby260.css?v=265"><link rel="stylesheet" href="logo262.css?v=264"><link rel="stylesheet" href="amb2851.css?v=2851"><script src="amb2851.js?v=2888" defer></script><script src="lobby21.js?v=266"></script><link rel="stylesheet" href="tap272.css?v=272"><link rel="stylesheet" href="dfpvol.css?v=2854"><script src="dfpvol.js?v=2854"></script><script src="settings.js?v=28136"></script><script src="hint.js?v=2840"></script><link rel="stylesheet" href="social2826.css?v=28102"><script type="module" src="fb2868.js?v=28117"></script><script src="social2826.js?v=28112"></script><link rel="stylesheet" href="week2827.css?v=28100"><script src="week2827.js?v=28100"></script><link rel="stylesheet" href="inv2828.css?v=2891"><script src="inv2828.js?v=2891"></script><link rel="stylesheet" href="raid2829.css?v=2882"><script src="raid2829.js?v=2882"></script><link rel="stylesheet" href="guild2833.css?v=2869"><script src="guild2833.js?v=2882"></script><link rel="stylesheet" href="lobby2840.css?v=28131"><link rel="stylesheet" href="lobby2841.css?v=2841"><link rel="stylesheet" href="lobby2842.css?v=28133"><link rel="stylesheet" href="act2848.css?v=2850"><link rel="stylesheet" href="toast2873.css?v=28115"><link rel="stylesheet" href="ach2874.css?v=2898"><script src="ach2874.js?v=2882"></script><script src="lobby2840.js?v=28133"></script><link rel="stylesheet" href="av2877.css?v=28107"><script src="av2877.js?v=28107"></script><link rel="stylesheet" href="skinshop.css?v=2865"><link rel="stylesheet" href="perf2887.css?v=2887"><script src="skinshop.js?v=28134"></script><link rel="stylesheet" href="lb28111.css?v=28114"><script src="lb28111.js?v=28114"></script><link rel="stylesheet" href="nick28112.css?v=28112"><script src="nick28112.js?v=28112"></script><link rel="stylesheet" href="chat28117.css?v=28117"><script src="chat28117.js?v=28117"></script><script>if("serviceWorker"in navigator)addEventListener("load",function(){navigator.serviceWorker.register("sw.js").catch(function(){})})</script></body></html>

diff --git a/frame28134.css b/frame28134.css
@@ -14,7 +14,7 @@ body.cab-on[data-skin="kabuto"] #cabFrame{--ovh:calc(var(--frame-crown) * 0.1712
 body.cab-on[data-skin="kabuto"] #cabFrame::before{border-image:url(assets/skins/frame-kabuto.webp?v=28134) 130 183 122 178 stretch}
 body.cab-on[data-skin="tsukiyo"] #cabFrame{--ovh:calc(var(--frame-crown) * 0.3784)}
 body.cab-on[data-skin="tsukiyo"] #cabFrame::before{border-image:url(assets/skins/frame-tsukiyo.webp?v=28134) 153 155 123 191 stretch}
-body.cab-on[data-skin="beach"] #cabFrame{--ovh:calc(var(--frame-crown) * 0.3694)}
-body.cab-on[data-skin="beach"] #cabFrame::before{border-image:url(assets/skins/frame-beach.webp?v=28134) 152 164 128 171 stretch}
+body.cab-on[data-skin="beach"] #cabFrame{--ovh:calc(var(--frame-crown) * 1.08)}
+body.cab-on[data-skin="beach"] #cabFrame::before{border-image:url(assets/skins/frame-beach.webp?v=28136) 120 154 120 159 stretch}
 body.cab-on[data-skin="feast"] #cabFrame{--ovh:calc(var(--frame-crown) * 0.5766)}
 body.cab-on[data-skin="feast"] #cabFrame::before{border-image:url(assets/skins/frame-feast.webp?v=28134) 175 164 122 165 stretch}

diff --git a/settings.js b/settings.js
@@ -1,6 +1,6 @@
 /* 龍運金殿 settings & haptics (v241, 減少動態效果 v245): lobby 設定 sheet + 震動回饋 toggle in every theme */
 /* v259: version line in 設定 (APPV filled in by app/build.sh) */
-var DFP_WEBV='28.135',DFP_APPV='';
+var DFP_WEBV='28.136',DFP_APPV='';
 (function(){var LS=window.localStorage,g=function(k){try{return LS.getItem(k)}catch(e){return null}},s=function(k,v){try{LS.setItem(k,v)}catch(e){}};
 var CAN=typeof navigator!=='undefined'&&typeof navigator.vibrate==='function';
 function vibOn(){return CAN&&g('fs_vib')!=='0'}
